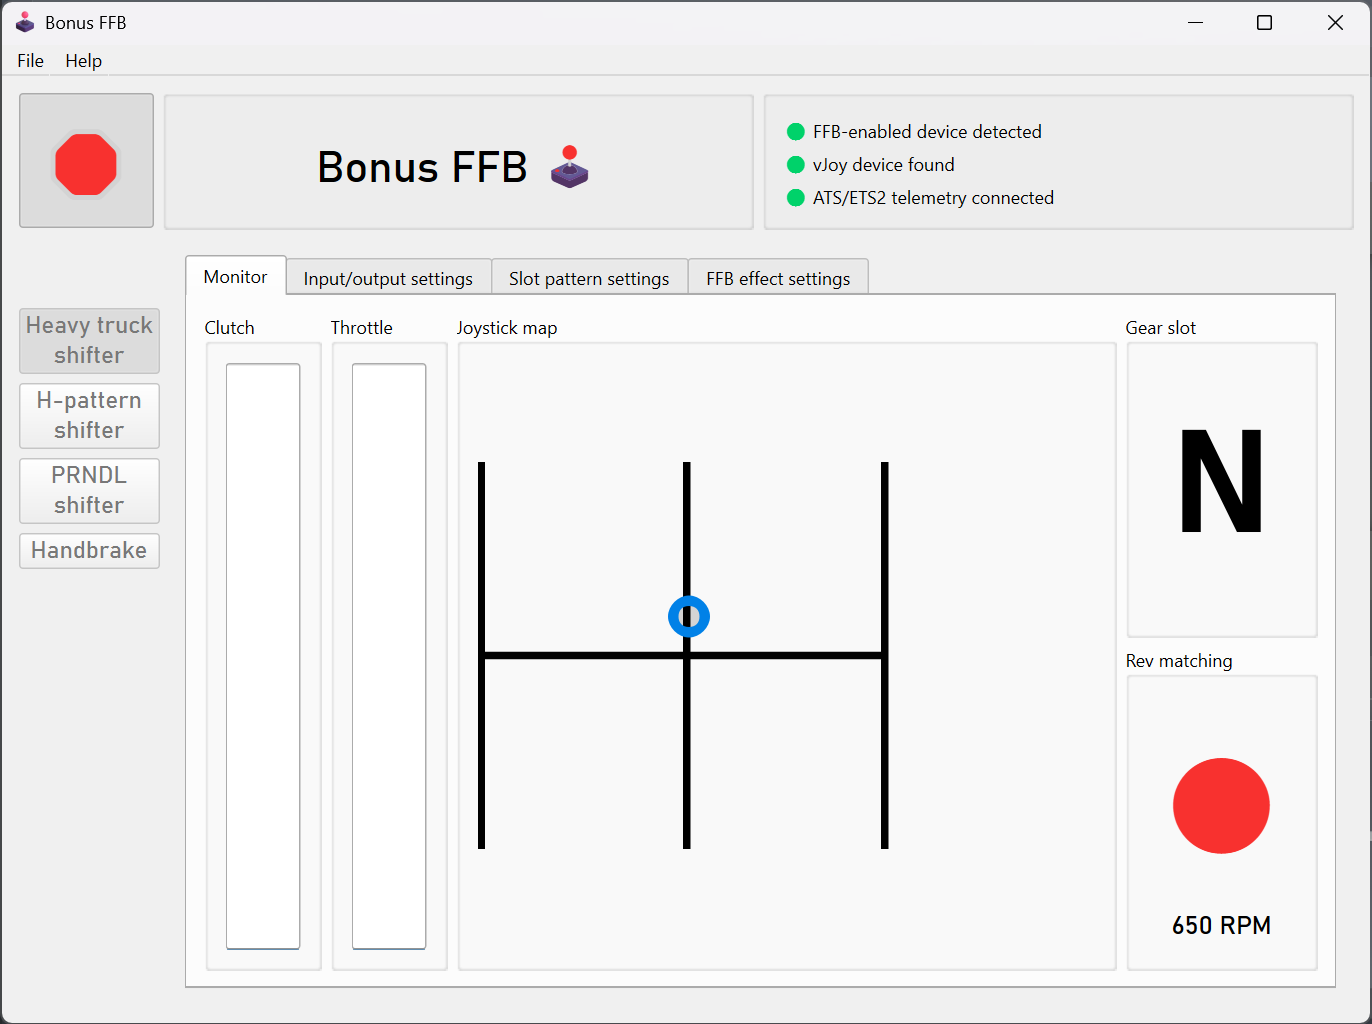
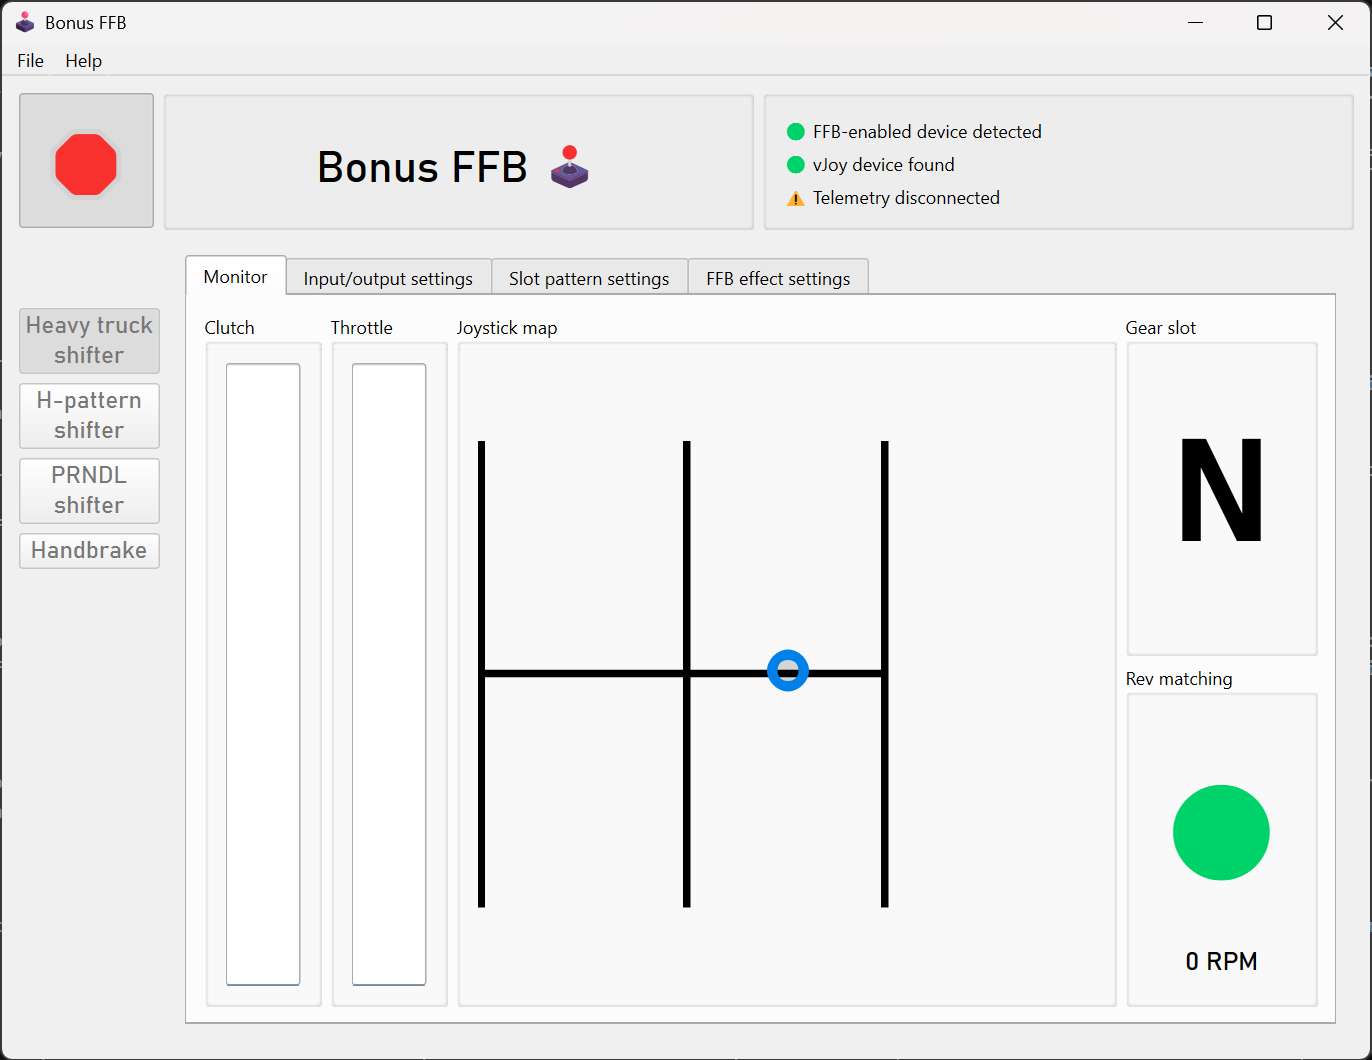
Documentation update, posted new video

diff --git a/docs/index.md b/docs/index.md
@@ -12,9 +12,14 @@ Bonus FFB is free, open-source software that simulates these devices using force
 
 Follow the [Getting Started](getting-started.md) guide for complete installations instructions.
 
-## H-pattern shifter demo video
+## Demo videos
 
-<iframe width="560" height="315" src="https://www.youtube.com/embed/UknrYzPSzug?si=49k1dFGFPOvRBpj0" title="YouTube video player" frameborder="0" allow="accelerometer; autoplay; clipboard-write; encrypted-media; gyroscope; picture-in-picture; web-share" referrerpolicy="strict-origin-when-cross-origin" allowfullscreen></iframe>
+<div class="grid cards" markdown>
+
+- <iframe width="560" height="315" src="https://www.youtube.com/embed/jpJpm_i2g7c?si=2uIfv2SdnJ3C_SHS" title="YouTube video player" frameborder="0" allow="accelerometer; autoplay; clipboard-write; encrypted-media; gyroscope; picture-in-picture; web-share" referrerpolicy="strict-origin-when-cross-origin" allowfullscreen></iframe>
+- <iframe width="560" height="315" src="https://www.youtube.com/embed/UknrYzPSzug?si=49k1dFGFPOvRBpj0" title="YouTube video player" frameborder="0" allow="accelerometer; autoplay; clipboard-write; encrypted-media; gyroscope; picture-in-picture; web-share" referrerpolicy="strict-origin-when-cross-origin" allowfullscreen></iframe>
+
+</div>
 
 ## Supported devices
 

diff --git a/docs/heavytruck.md b/docs/heavytruck.md
@@ -6,7 +6,12 @@ The heavy truck mode was built specifically for American Truck Simulator. [Setti
 
 The heavy truck mode features rev-matching effects to enable tactile float shifting, configurable slot throws to support joystick extensions, Eaton-Fuller specific slot layouts, and more.
 
-![H-Shifter](images/heavytruck-screenshot.png) 
+![Heavy truck mode](images/heavytruck-screenshot.png) 
+
+## Demo video
+
+<iframe width="560" height="315" src="https://www.youtube.com/embed/jpJpm_i2g7c?si=2uIfv2SdnJ3C_SHS" title="YouTube video player" frameborder="0" allow="accelerometer; autoplay; clipboard-write; encrypted-media; gyroscope; picture-in-picture; web-share" referrerpolicy="strict-origin-when-cross-origin" allowfullscreen></iframe>
+
 
 ## Features
 